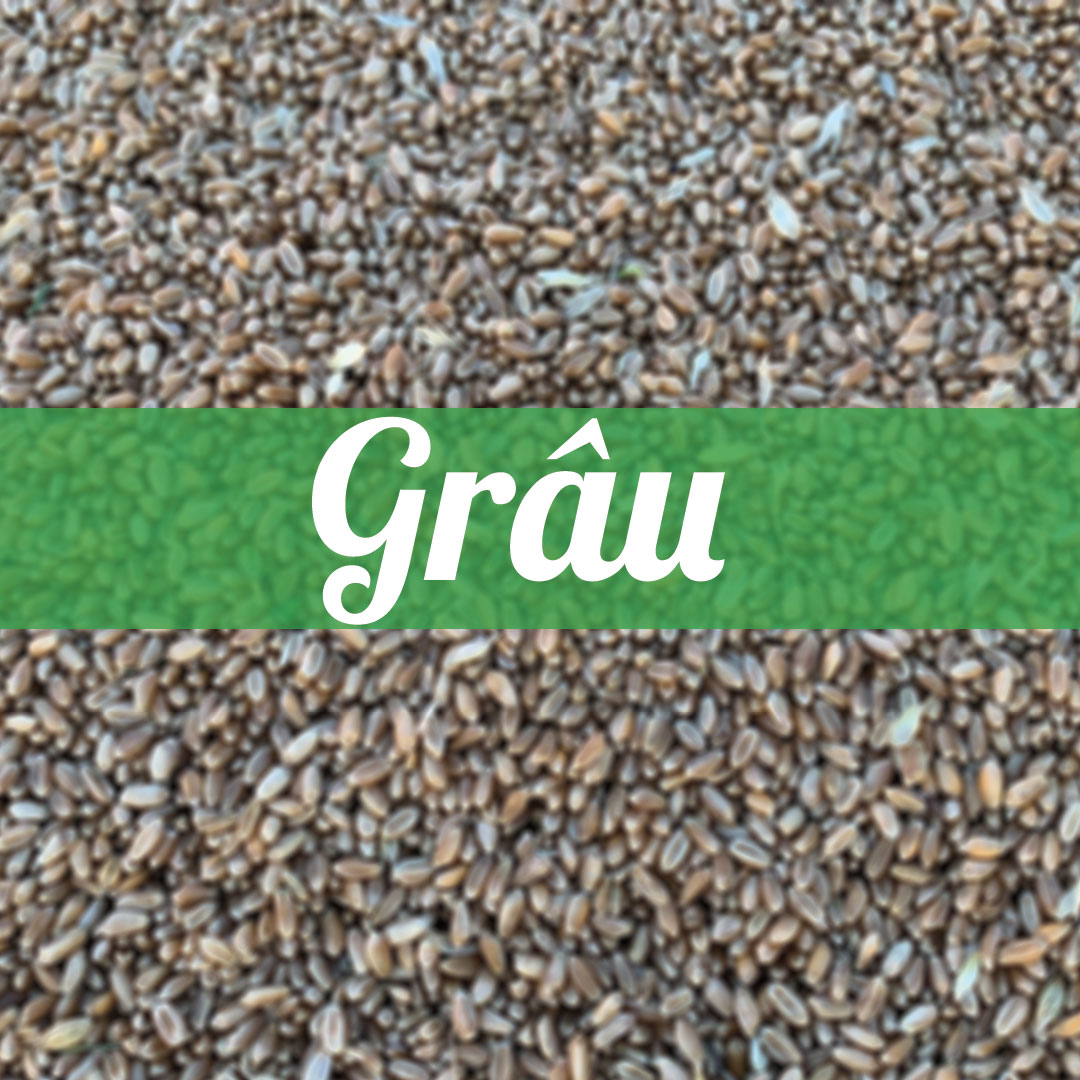
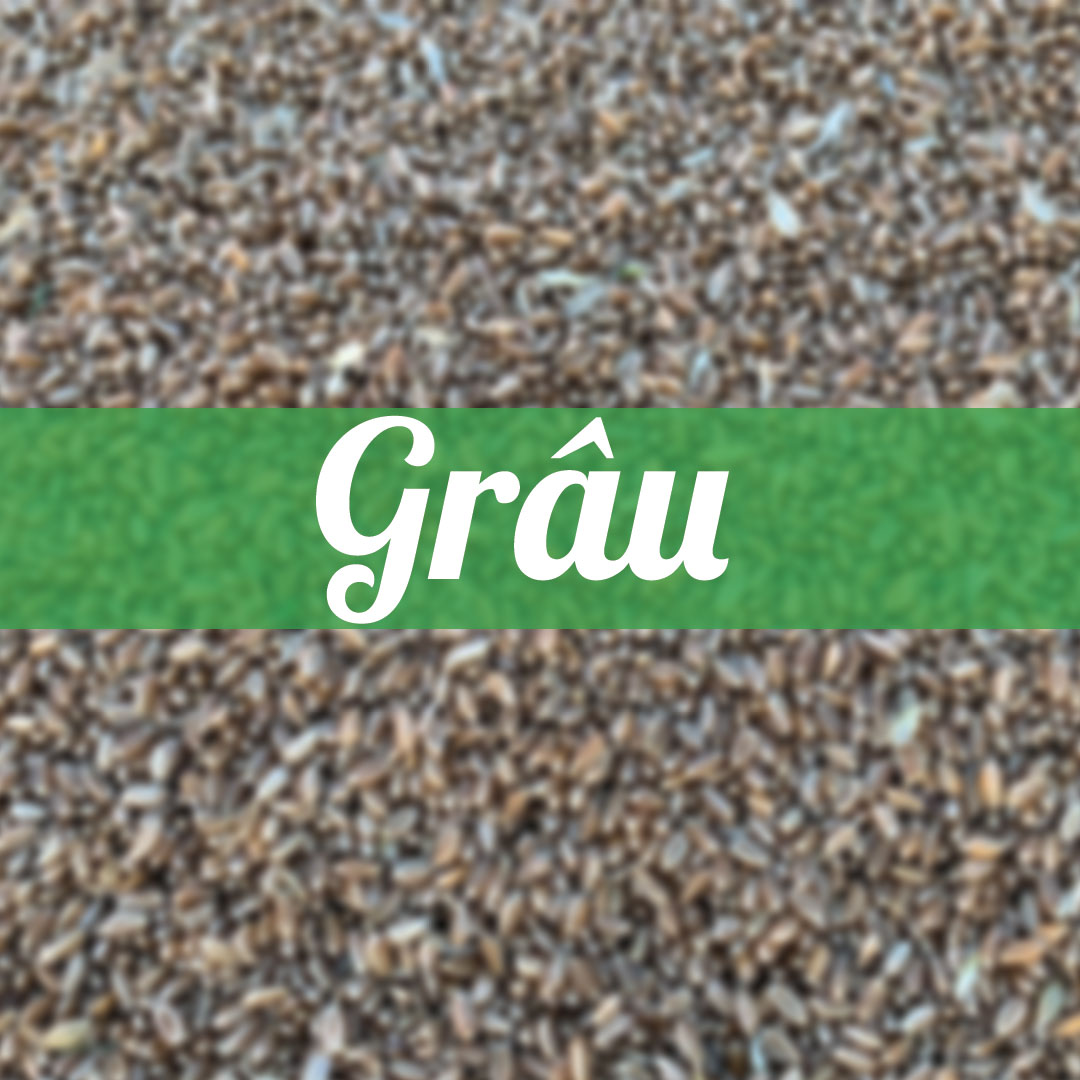
add all products back images

diff --git a/index.html b/index.html
@@ -294,7 +294,7 @@
                   <div class="card" style="width: 20rem">
                     <img
                       class="card-img-top img-fluid"
-                      src="images/products/porumb.jpg"
+                      src="images/products/porumb2.jpg"
                       alt="card image"
                     />
                   </div>
@@ -322,7 +322,7 @@
                   <div class="card" style="width: 20rem">
                     <img
                       class="card-img-top img-fluid"
-                      src="images/products/granule.jpg"
+                      src="images/products/granule2.jpg"
                       alt="card image"
                     />
                   </div>
@@ -350,7 +350,7 @@
                   <div class="card" style="width: 20rem">
                     <img
                       class="card-img-top img-fluid"
-                      src="images/products/crupe.jpg"
+                      src="images/products/crupe2.jpg"
                       alt="card image"
                     />
                   </div>
@@ -378,7 +378,7 @@
                   <div class="card" style="width: 20rem">
                     <img
                       class="card-img-top img-fluid"
-                      src="images/products/urluiala.jpg"
+                      src="images/products/urluiala2.jpg"
                       alt="card image"
                     />
                   </div>
@@ -406,7 +406,7 @@
                   <div class="card" style="width: 20rem">
                     <img
                       class="card-img-top img-fluid"
-                      src="images/products/peleti.jpg"
+                      src="images/products/peleti2.jpg"
                       alt="card image"
                     />
                   </div>
